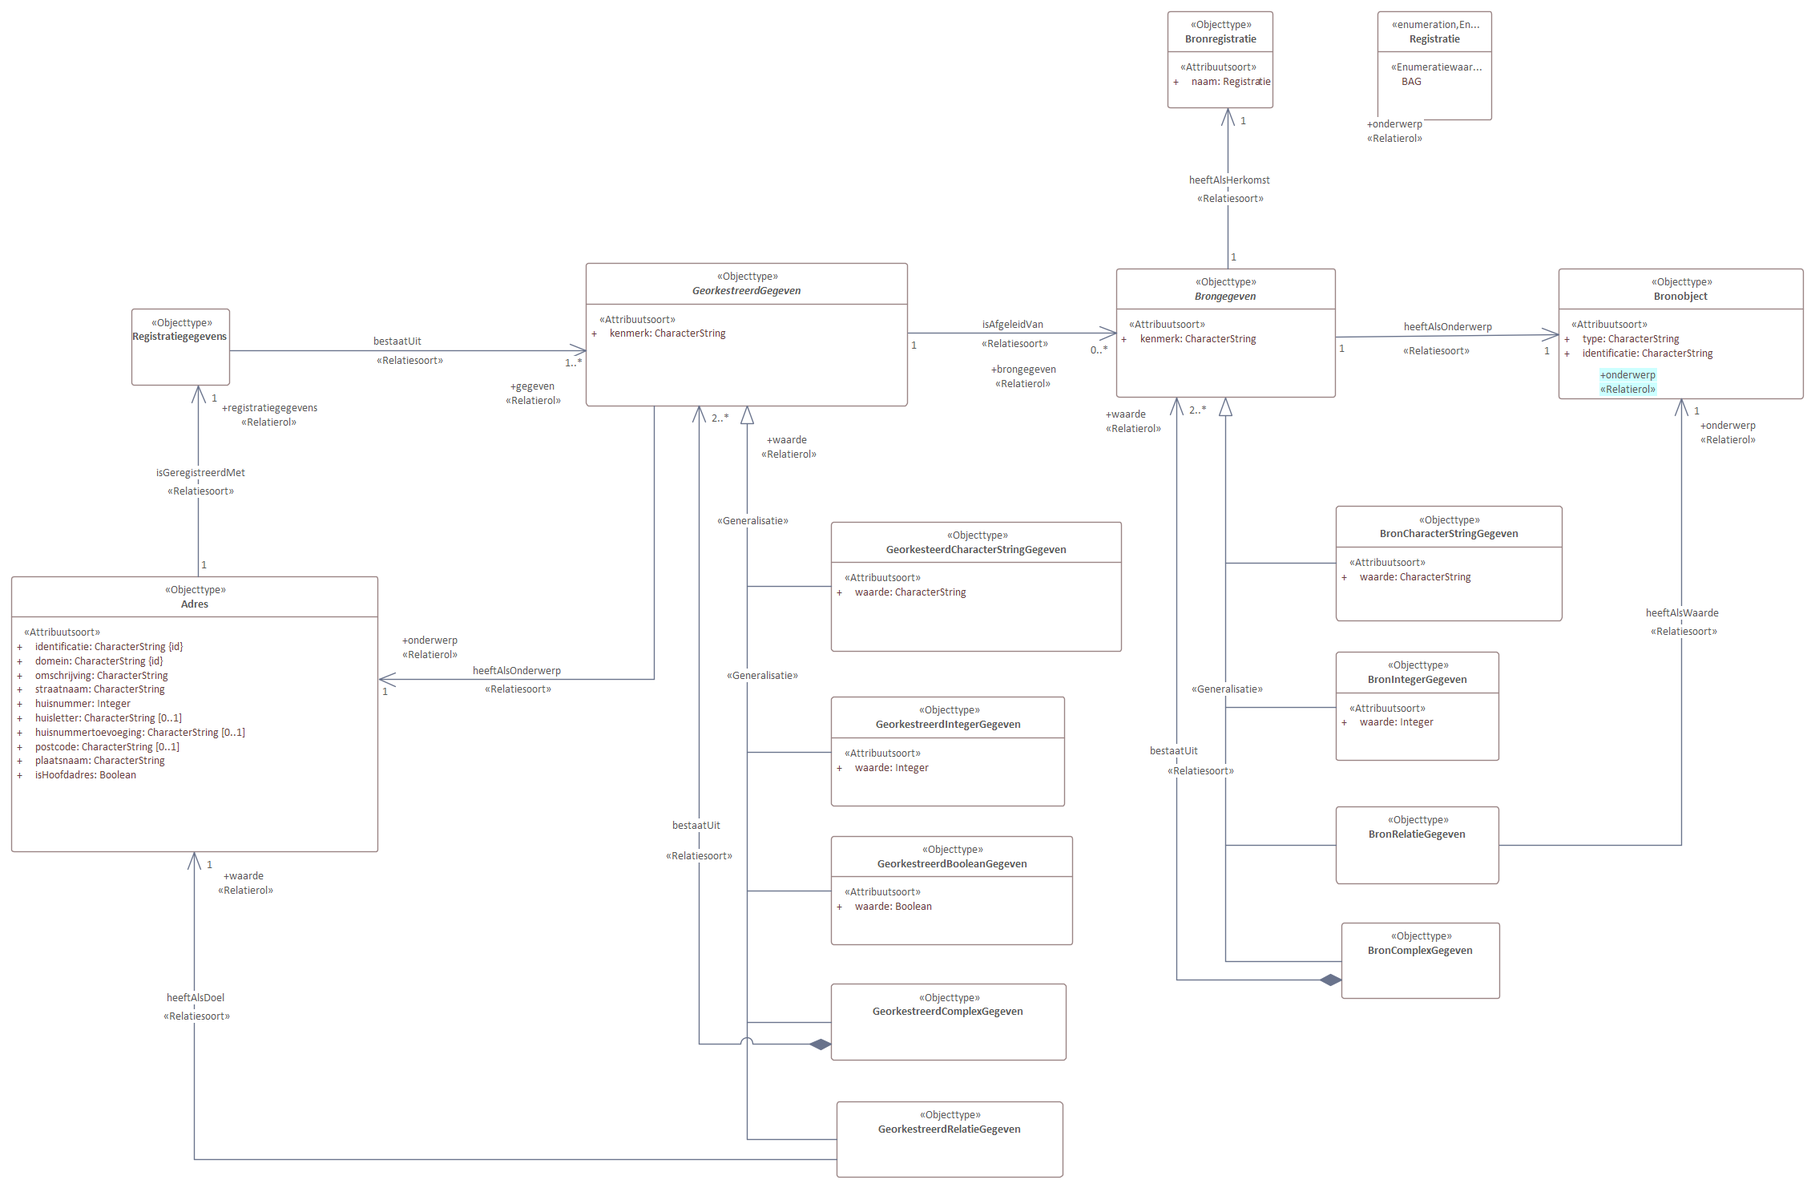
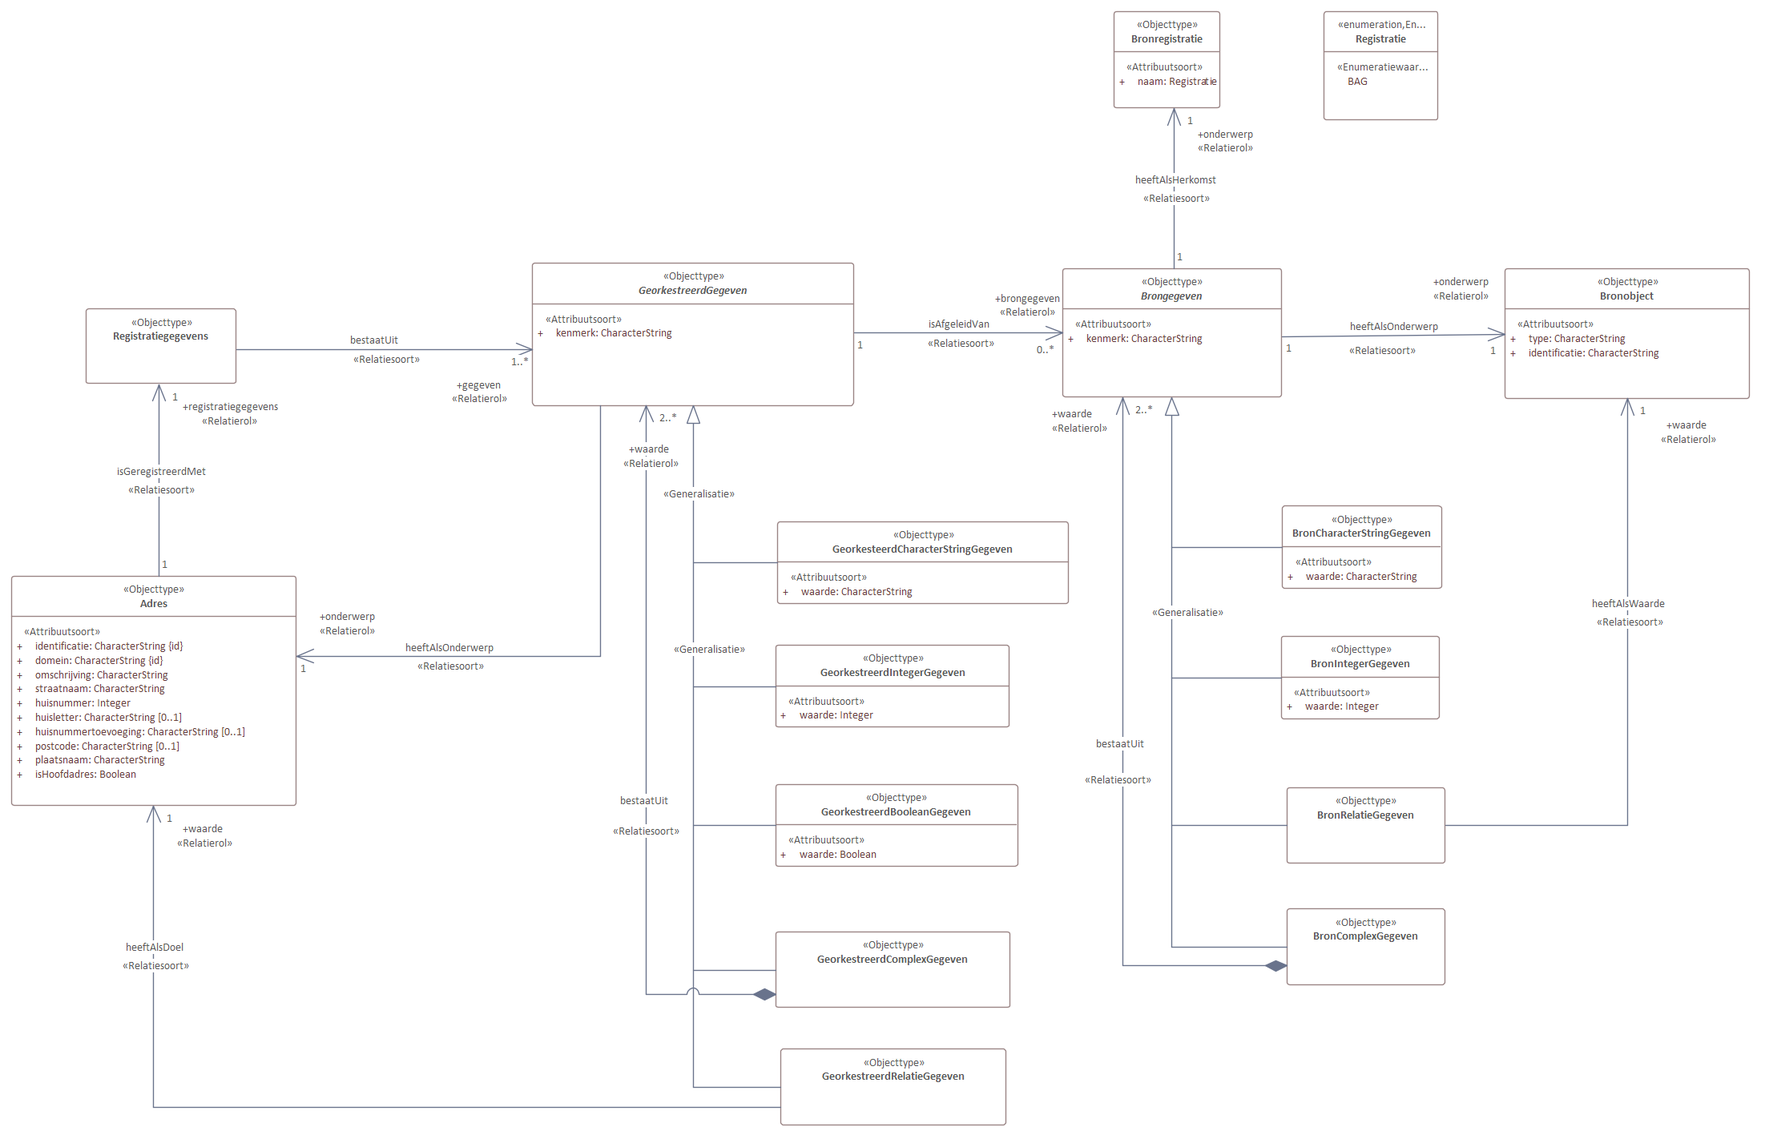
MIMCM-Adres-logisch-1.0-0-20230101-20230208-162255

diff --git a/data/WaU-UC1-cat.respec.html b/data/WaU-UC1-cat.respec.html
@@ -1,10 +1,10 @@
 
 <!DOCTYPE HTML><section id="cat" class="normative">
    <h2>Gegevensdefinitie</h2>
-   <!--MIMCM-Adres-logisch-1.0-0-20230101-20230208-161113 imvertor 2.0.0-->
+   <!--MIMCM-Adres-logisch-1.0-0-20230101-20230208-162255 imvertor 2.0.0-->
    <section id="EAID_81091321_9EE0_4579_A81E_FCDB43817CB6">
       <h3>   LM Adres - overzicht</h3>
-      <div class="imageinfo overview"><img src="data/Images/EAID_81091321_9EE0_4579_A81E_FCDB43817CB6.png" usemap="#imagemap-EAID_81091321_9EE0_4579_A81E_FCDB43817CB6" alt="Diagram &#xA;                        &#xA;                     "><map name="imagemap-EAID_81091321_9EE0_4579_A81E_FCDB43817CB6"><area shape="rect" alt="BronComplexGegeven" coords="1543,1151,1741,1246" href="#graph_EAID_6068EA49_84F3_4d94_B811_DA1D6E691482"><area shape="rect" alt="GeorkestreerdComplexGegeven" coords="906,1227,1200,1323" href="#graph_EAID_718A8CD5_7B14_4f39_99CA_7DEC96F860D9"><area shape="rect" alt="GeorkestreerdRelatieGegeven" coords="913,1373,1194,1469" href="#graph_EAID_D3CD7E63_35E9_464a_94C0_2DBFF0794B9A"><area shape="rect" alt="Bronregistratie" coords="1326,14,1458,135" href="#graph_EAID_687EF350_4662_4130_9934_56ABA00C9CB0"><area shape="rect" alt="BronRelatieGegeven" coords="1536,1006,1740,1102" href="#graph_EAID_FFD031BE_1F6B_49cb_AB2B_9091F96900E6"><area shape="rect" alt="BronIntegerGegeven" coords="1536,813,1740,950" href="#graph_EAID_DBA583C0_8B4E_4440_AFD7_469E94678574"><area shape="rect" alt="BronCharacterStringGegeven" coords="1536,631,1819,774" href="#graph_EAID_9E068EB6_4693_46c5_BEB1_75402E292ED4"><area shape="rect" alt="GeorkestreerdBooleanGegeven" coords="906,1043,1208,1179" href="#graph_EAID_A01F03E1_C230_4495_A810_A44525A808D1"><area shape="rect" alt="GeorkestreerdIntegerGegeven" coords="906,869,1199,1006" href="#graph_EAID_84DA2A1B_63C4_4a2f_9F21_07B81C042DDE"><area shape="rect" alt="GeorkesteerdCharacterStringGegeven" coords="906,651,1270,813" href="#graph_EAID_A056D40D_8797_414f_83C5_7A4306AB2F5B"><area shape="rect" alt="Bronobject" coords="1814,335,2120,497" href="#graph_EAID_9E6194F5_3BD6_483e_8E72_4CFACAAF6BE0"><area shape="rect" alt="Brongegeven" coords="1261,335,1536,496" href="#graph_EAID_B5516874_1DE0_49dd_9793_202D13B9963A"><area shape="rect" alt="GeorkestreerdGegeven" coords="600,328,1002,506" href="#graph_EAID_7589CBC4_A5AD_4d23_AA96_EB7E1DAE9DB3"><area shape="rect" alt="Adres" coords="14,847,228,924" href="#graph_EAID_CD37ECD0_E073_4444_BBFA_9F3C1E5F46F1"></map><p><b>LM Adres - overzicht</b></p>
+      <div class="imageinfo overview"><img src="data/Images/EAID_81091321_9EE0_4579_A81E_FCDB43817CB6.png" usemap="#imagemap-EAID_81091321_9EE0_4579_A81E_FCDB43817CB6" alt="Diagram &#xA;                        &#xA;                     "><map name="imagemap-EAID_81091321_9EE0_4579_A81E_FCDB43817CB6"><area shape="rect" alt="Registratiegegevens" coords="44,335,200,430" href="#graph_EAID_54DBC205_E908_44b9_98CC_AA866F0F9610"><area shape="rect" alt="BronComplexGegeven" coords="1363,1152,1561,1264" href="#graph_EAID_6068EA49_84F3_4d94_B811_DA1D6E691482"><area shape="rect" alt="GeorkestreerdComplexGegeven" coords="722,1227,1015,1339" href="#graph_EAID_718A8CD5_7B14_4f39_99CA_7DEC96F860D9"><area shape="rect" alt="GeorkestreerdRelatieGegeven" coords="728,1373,1010,1486" href="#graph_EAID_D3CD7E63_35E9_464a_94C0_2DBFF0794B9A"><area shape="rect" alt="Bronregistratie" coords="1141,14,1274,126" href="#graph_EAID_687EF350_4662_4130_9934_56ABA00C9CB0"><area shape="rect" alt="BronRelatieGegeven" coords="1356,1007,1559,1119" href="#graph_EAID_FFD031BE_1F6B_49cb_AB2B_9091F96900E6"><area shape="rect" alt="BronIntegerGegeven" coords="1352,813,1555,925" href="#graph_EAID_DBA583C0_8B4E_4440_AFD7_469E94678574"><area shape="rect" alt="BronCharacterStringGegeven" coords="1352,631,1635,743" href="#graph_EAID_9E068EB6_4693_46c5_BEB1_75402E292ED4"><area shape="rect" alt="GeorkestreerdBooleanGegeven" coords="718,1044,1020,1156" href="#graph_EAID_A01F03E1_C230_4495_A810_A44525A808D1"><area shape="rect" alt="GeorkestreerdIntegerGegeven" coords="722,869,1014,981" href="#graph_EAID_84DA2A1B_63C4_4a2f_9F21_07B81C042DDE"><area shape="rect" alt="GeorkesteerdCharacterStringGegeven" coords="722,651,1085,763" href="#graph_EAID_A056D40D_8797_414f_83C5_7A4306AB2F5B"><area shape="rect" alt="Bronobject" coords="1629,335,1935,447" href="#graph_EAID_9E6194F5_3BD6_483e_8E72_4CFACAAF6BE0"><area shape="rect" alt="Brongegeven" coords="1077,335,1352,447" href="#graph_EAID_B5516874_1DE0_49dd_9793_202D13B9963A"><area shape="rect" alt="GeorkestreerdGegeven" coords="422,335,825,447" href="#graph_EAID_7589CBC4_A5AD_4d23_AA96_EB7E1DAE9DB3"><area shape="rect" alt="Adres" coords="14,793,228,869" href="#graph_EAID_CD37ECD0_E073_4444_BBFA_9F3C1E5F46F1"></map><p><b>LM Adres - overzicht</b></p>
       </div>
    </section>
    <section id="EAID_21EC1E6E_BB66_40aa_A271_6E7F452751BC">
@@ -14,7 +14,7 @@
    </section>
    <section id="EAID_18371C99_5129_4c39_8E20_83CED8FF19B9">
       <h3>   LM Adres - detail</h3>
-      <div class="imageinfo "><img src="data/Images/EAID_18371C99_5129_4c39_8E20_83CED8FF19B9.png" usemap="#imagemap-EAID_18371C99_5129_4c39_8E20_83CED8FF19B9" alt="Diagram &#xA;                        &#xA;                     "><map name="imagemap-EAID_18371C99_5129_4c39_8E20_83CED8FF19B9"><area shape="rect" alt="Registratiegegevens" coords="164,385,287,481" href="#graph_EAID_54DBC205_E908_44b9_98CC_AA866F0F9610"><area shape="rect" alt="BronComplexGegeven" coords="1674,1151,1872,1246" href="#graph_EAID_6068EA49_84F3_4d94_B811_DA1D6E691482"><area shape="rect" alt="GeorkestreerdComplexGegeven" coords="1037,1227,1331,1323" href="#graph_EAID_718A8CD5_7B14_4f39_99CA_7DEC96F860D9"><area shape="rect" alt="GeorkestreerdRelatieGegeven" coords="1044,1374,1326,1469" href="#graph_EAID_D3CD7E63_35E9_464a_94C0_2DBFF0794B9A"><area shape="rect" alt="Bronregistratie" coords="1457,14,1589,135" href="#graph_EAID_687EF350_4662_4130_9934_56ABA00C9CB0"><area shape="rect" alt="BronRelatieGegeven" coords="1667,1006,1871,1102" href="#graph_EAID_FFD031BE_1F6B_49cb_AB2B_9091F96900E6"><area shape="rect" alt="BronIntegerGegeven" coords="1667,813,1871,950" href="#graph_EAID_DBA583C0_8B4E_4440_AFD7_469E94678574"><area shape="rect" alt="BronCharacterStringGegeven" coords="1667,631,1950,774" href="#graph_EAID_9E068EB6_4693_46c5_BEB1_75402E292ED4"><area shape="rect" alt="GeorkestreerdBooleanGegeven" coords="1037,1043,1339,1179" href="#graph_EAID_A01F03E1_C230_4495_A810_A44525A808D1"><area shape="rect" alt="GeorkestreerdIntegerGegeven" coords="1037,869,1330,1006" href="#graph_EAID_84DA2A1B_63C4_4a2f_9F21_07B81C042DDE"><area shape="rect" alt="GeorkesteerdCharacterStringGegeven" coords="1037,651,1401,813" href="#graph_EAID_A056D40D_8797_414f_83C5_7A4306AB2F5B"><area shape="rect" alt="Bronobject" coords="1945,335,2251,497" href="#graph_EAID_9E6194F5_3BD6_483e_8E72_4CFACAAF6BE0"><area shape="rect" alt="Registratie" coords="1719,14,1863,150" href="#graph_EAID_6DA086A8_76D7_4108_821A_CCA4DE494DBD"><area shape="rect" alt="Brongegeven" coords="1393,335,1667,496" href="#graph_EAID_B5516874_1DE0_49dd_9793_202D13B9963A"><area shape="rect" alt="GeorkestreerdGegeven" coords="731,328,1133,506" href="#graph_EAID_7589CBC4_A5AD_4d23_AA96_EB7E1DAE9DB3"><area shape="rect" alt="Adres" coords="14,719,473,1063" href="#graph_EAID_CD37ECD0_E073_4444_BBFA_9F3C1E5F46F1"></map><p><b>LM Adres - detail</b></p>
+      <div class="imageinfo "><img src="data/Images/EAID_18371C99_5129_4c39_8E20_83CED8FF19B9.png" usemap="#imagemap-EAID_18371C99_5129_4c39_8E20_83CED8FF19B9" alt="Diagram &#xA;                        &#xA;                     "><map name="imagemap-EAID_18371C99_5129_4c39_8E20_83CED8FF19B9"><area shape="rect" alt="Registratiegegevens" coords="107,385,295,480" href="#graph_EAID_54DBC205_E908_44b9_98CC_AA866F0F9610"><area shape="rect" alt="BronComplexGegeven" coords="1606,1134,1804,1230" href="#graph_EAID_6068EA49_84F3_4d94_B811_DA1D6E691482"><area shape="rect" alt="GeorkestreerdComplexGegeven" coords="968,1163,1261,1259" href="#graph_EAID_718A8CD5_7B14_4f39_99CA_7DEC96F860D9"><area shape="rect" alt="GeorkestreerdRelatieGegeven" coords="974,1309,1256,1405" href="#graph_EAID_D3CD7E63_35E9_464a_94C0_2DBFF0794B9A"><area shape="rect" alt="Bronregistratie" coords="1390,14,1522,135" href="#graph_EAID_687EF350_4662_4130_9934_56ABA00C9CB0"><area shape="rect" alt="BronRelatieGegeven" coords="1606,983,1804,1078" href="#graph_EAID_FFD031BE_1F6B_49cb_AB2B_9091F96900E6"><area shape="rect" alt="BronIntegerGegeven" coords="1599,794,1797,898" href="#graph_EAID_DBA583C0_8B4E_4440_AFD7_469E94678574"><area shape="rect" alt="BronCharacterStringGegeven" coords="1600,631,1799,735" href="#graph_EAID_9E068EB6_4693_46c5_BEB1_75402E292ED4"><area shape="rect" alt="GeorkestreerdBooleanGegeven" coords="968,979,1270,1082" href="#graph_EAID_A01F03E1_C230_4495_A810_A44525A808D1"><area shape="rect" alt="GeorkestreerdIntegerGegeven" coords="968,805,1260,909" href="#graph_EAID_84DA2A1B_63C4_4a2f_9F21_07B81C042DDE"><area shape="rect" alt="GeorkesteerdCharacterStringGegeven" coords="970,651,1334,754" href="#graph_EAID_A056D40D_8797_414f_83C5_7A4306AB2F5B"><area shape="rect" alt="Bronobject" coords="1878,335,2184,497" href="#graph_EAID_9E6194F5_3BD6_483e_8E72_4CFACAAF6BE0"><area shape="rect" alt="Registratie" coords="1652,14,1796,150" href="#graph_EAID_6DA086A8_76D7_4108_821A_CCA4DE494DBD"><area shape="rect" alt="Brongegeven" coords="1326,335,1600,496" href="#graph_EAID_B5516874_1DE0_49dd_9793_202D13B9963A"><area shape="rect" alt="GeorkestreerdGegeven" coords="664,328,1066,506" href="#graph_EAID_7589CBC4_A5AD_4d23_AA96_EB7E1DAE9DB3"><area shape="rect" alt="Adres" coords="14,719,370,1006" href="#graph_EAID_CD37ECD0_E073_4444_BBFA_9F3C1E5F46F1"></map><p><b>LM Adres - detail</b></p>
       </div>
    </section>
    <section id="EAID_E932B931_8807_4160_A096_5F49806F1EF2">
@@ -266,66 +266,6 @@
                      [ 1 ]
                      </td>
                   <td></td>
-               </tr>
-            </tbody>
-         </table>
-         
-         </section>
-      <a class="anchor" id="graph_EAID_54DBC205_E908_44b9_98CC_AA866F0F9610"></a><a class="anchor" id="global_class_Adres_Registratiegegevens"></a><section id="global_class_Adres_Registratiegegevens">
-         <h4>   Registratiegegevens</h4>
-         
-         <table style="width: 100%;">
-            <colgroup style="width: 30%;"></colgroup>
-            <colgroup style="width: 70%;"></colgroup>
-            <tbody>
-               <tr>
-                  <th>Naam</th>
-                  <td>Registratiegegevens</td>
-               </tr>
-            </tbody>
-         </table>
-         
-         <h5>Overzicht relaties  </h5>
-         
-         
-         <table style="width: 100%;">
-            <colgroup style="width: 50%;"></colgroup>
-            <colgroup style="width: 50%;"></colgroup>
-            <tbody>
-               <tr>
-                  <th>Rol naam met kardinaliteiten</th>
-                  <th>Definitie</th>
-               </tr>
-               <tr>
-                  <td>
-                     Registratiegegevens
-                     [ 1 ]
-                     
-                     <a class="link" href="#detail_association_Adres_Registratiegegevens_gegeven">bestaatUit: gegeven</a>
-                     
-                     
-                     <a class="link" href="#global_class_Adres_GeorkestreerdGegeven">GeorkestreerdGegeven</a>
-                     
-                     [ 1 .. * ]
-                     </td>
-                  <td></td>
-               </tr>
-               <tr>
-                  <td>
-                     
-                     <a class="link" href="#global_class_Adres_Adres">Adres</a>
-                     
-                     [ 1 ]
-                     
-                     <a class="link" href="#detail_association_Adres_Adres_registratiegegevens">isGeregistreerdMet: registratiegegevens</a>
-                     
-                     Registratiegegevens
-                     [ 1 ]
-                     </td>
-                  <td>
-                     
-                     <p>Registraties, waarmee Adres is geregistreerd.</p>
-                     </td>
                </tr>
             </tbody>
          </table>
@@ -1019,7 +959,7 @@
                      BronRelatieGegeven
                      [ 1 ]
                      
-                     <a class="link" href="#detail_association_Adres_BronRelatieGegeven_onderwerp">heeftAlsWaarde: onderwerp</a>
+                     <a class="link" href="#detail_association_Adres_BronRelatieGegeven_waarde">heeftAlsWaarde: waarde</a>
                      
                      
                      <a class="link" href="#global_class_Adres_Bronobject">Bronobject</a>
@@ -1152,7 +1092,7 @@
                      
                      [ 1 ]
                      
-                     <a class="link" href="#detail_association_Adres_BronRelatieGegeven_onderwerp">heeftAlsWaarde: onderwerp</a>
+                     <a class="link" href="#detail_association_Adres_BronRelatieGegeven_waarde">heeftAlsWaarde: waarde</a>
                      
                      Bronobject
                      [ 1 ]
@@ -1248,6 +1188,66 @@
                   <td>
                      
                      <p>Bronregistratie, waar brongegeven uit herkomt.</p>
+                     </td>
+               </tr>
+            </tbody>
+         </table>
+         
+         </section>
+      <a class="anchor" id="graph_EAID_54DBC205_E908_44b9_98CC_AA866F0F9610"></a><a class="anchor" id="global_class_Adres_Registratiegegevens"></a><section id="global_class_Adres_Registratiegegevens">
+         <h4>   Registratiegegevens</h4>
+         
+         <table style="width: 100%;">
+            <colgroup style="width: 30%;"></colgroup>
+            <colgroup style="width: 70%;"></colgroup>
+            <tbody>
+               <tr>
+                  <th>Naam</th>
+                  <td>Registratiegegevens</td>
+               </tr>
+            </tbody>
+         </table>
+         
+         <h5>Overzicht relaties  </h5>
+         
+         
+         <table style="width: 100%;">
+            <colgroup style="width: 50%;"></colgroup>
+            <colgroup style="width: 50%;"></colgroup>
+            <tbody>
+               <tr>
+                  <th>Rol naam met kardinaliteiten</th>
+                  <th>Definitie</th>
+               </tr>
+               <tr>
+                  <td>
+                     Registratiegegevens
+                     [ 1 ]
+                     
+                     <a class="link" href="#detail_association_Adres_Registratiegegevens_gegeven">bestaatUit: gegeven</a>
+                     
+                     
+                     <a class="link" href="#global_class_Adres_GeorkestreerdGegeven">GeorkestreerdGegeven</a>
+                     
+                     [ 1 .. * ]
+                     </td>
+                  <td></td>
+               </tr>
+               <tr>
+                  <td>
+                     
+                     <a class="link" href="#global_class_Adres_Adres">Adres</a>
+                     
+                     [ 1 ]
+                     
+                     <a class="link" href="#detail_association_Adres_Adres_registratiegegevens">isGeregistreerdMet: registratiegegevens</a>
+                     
+                     Registratiegegevens
+                     [ 1 ]
+                     </td>
+                  <td>
+                     
+                     <p>Registraties, waarmee Adres is geregistreerd.</p>
                      </td>
                </tr>
             </tbody>
@@ -2088,46 +2088,6 @@
                </table>
                </section>
             </section>
-         <a class="anchor" id="detail_class_Adres_Registratiegegevens"></a><section id="detail_class_Adres_Registratiegegevens">
-            <h5>   Registratiegegevens</h5>
-            <a class="anchor" id="detail_association_Adres_Registratiegegevens_gegeven"></a><section id="detail_association_Adres_Registratiegegevens_gegeven">
-               <h6>Relatiesoort details  <a href="#global_class_Adres_Registratiegegevens">Registratiegegevens</a> bestaatUit</h6>
-               
-               
-               <table style="width: 100%;">
-                  <colgroup style="width: 30%;"></colgroup>
-                  <colgroup style="width: 70%;"></colgroup>
-                  <tbody>
-                     <tr>
-                        <th>Naam</th>
-                        <td>bestaatUit</td>
-                     </tr>
-                     <tr>
-                        <th>Mogelijk geen waarde</th>
-                        <td>Nee</td>
-                     </tr>
-                     <tr>
-                        <th>Indicatie materiële historie</th>
-                        <td>Nee</td>
-                     </tr>
-                     <tr>
-                        <th>Indicatie formele historie</th>
-                        <td>Nee</td>
-                     </tr>
-                     <tr>
-                        <th>Kardinaliteit</th>
-                        <td>1 .. *</td>
-                     </tr>
-                     <tr>
-                        <th>Gerelateerd objecttype</th>
-                        <td>
-                           <a class="link" href="#global_class_Adres_GeorkestreerdGegeven">GeorkestreerdGegeven</a>
-                           </td>
-                     </tr>
-                  </tbody>
-               </table>
-               </section>
-            </section>
          <a class="anchor" id="detail_class_Adres_GeorkestreerdGegeven"></a><section id="detail_class_Adres_GeorkestreerdGegeven">
             <h5>   GeorkestreerdGegeven</h5>
             <a class="anchor" id="detail_attribute_Adres_GeorkestreerdGegeven_kenmerk"></a><section id="detail_attribute_Adres_GeorkestreerdGegeven_kenmerk">
@@ -2544,7 +2504,7 @@
             </section>
          <a class="anchor" id="detail_class_Adres_BronRelatieGegeven"></a><section id="detail_class_Adres_BronRelatieGegeven">
             <h5>   BronRelatieGegeven</h5>
-            <a class="anchor" id="detail_association_Adres_BronRelatieGegeven_onderwerp"></a><section id="detail_association_Adres_BronRelatieGegeven_onderwerp">
+            <a class="anchor" id="detail_association_Adres_BronRelatieGegeven_waarde"></a><section id="detail_association_Adres_BronRelatieGegeven_waarde">
                <h6>Relatiesoort details  <a href="#global_class_Adres_BronRelatieGegeven">BronRelatieGegeven</a> heeftAlsWaarde</h6>
                
                
@@ -2720,6 +2680,46 @@
                </table>
                </section>
             </section>
+         <a class="anchor" id="detail_class_Adres_Registratiegegevens"></a><section id="detail_class_Adres_Registratiegegevens">
+            <h5>   Registratiegegevens</h5>
+            <a class="anchor" id="detail_association_Adres_Registratiegegevens_gegeven"></a><section id="detail_association_Adres_Registratiegegevens_gegeven">
+               <h6>Relatiesoort details  <a href="#global_class_Adres_Registratiegegevens">Registratiegegevens</a> bestaatUit</h6>
+               
+               
+               <table style="width: 100%;">
+                  <colgroup style="width: 30%;"></colgroup>
+                  <colgroup style="width: 70%;"></colgroup>
+                  <tbody>
+                     <tr>
+                        <th>Naam</th>
+                        <td>bestaatUit</td>
+                     </tr>
+                     <tr>
+                        <th>Mogelijk geen waarde</th>
+                        <td>Nee</td>
+                     </tr>
+                     <tr>
+                        <th>Indicatie materiële historie</th>
+                        <td>Nee</td>
+                     </tr>
+                     <tr>
+                        <th>Indicatie formele historie</th>
+                        <td>Nee</td>
+                     </tr>
+                     <tr>
+                        <th>Kardinaliteit</th>
+                        <td>1 .. *</td>
+                     </tr>
+                     <tr>
+                        <th>Gerelateerd objecttype</th>
+                        <td>
+                           <a class="link" href="#global_class_Adres_GeorkestreerdGegeven">GeorkestreerdGegeven</a>
+                           </td>
+                     </tr>
+                  </tbody>
+               </table>
+               </section>
+            </section>
          <a class="anchor" id="detail_class_Adres_BronComplexGegeven"></a><section id="detail_class_Adres_BronComplexGegeven">
             <h5>   BronComplexGegeven</h5>
             <a class="anchor" id="detail_association_Adres_BronComplexGegeven_waarde"></a><section id="detail_association_Adres_BronComplexGegeven_waarde">
@@ -2826,7 +2826,7 @@
 </section>
 <section id="lis" class="normative">
    <h2>Inhoud van waardenlijsten</h2>
-   <!--MIMCM-Adres-logisch-1.0-0-20230101-20230208-161113 imvertor 2.0.0--><a class="anchor" id="graph_EAID_6DA086A8_76D7_4108_821A_CCA4DE494DBD"></a><a class="anchor" id="detail_class_Adres_Registratie"></a><section id="detail_class_Adres_Registratie">
+   <!--MIMCM-Adres-logisch-1.0-0-20230101-20230208-162255 imvertor 2.0.0--><a class="anchor" id="graph_EAID_6DA086A8_76D7_4108_821A_CCA4DE494DBD"></a><a class="anchor" id="detail_class_Adres_Registratie"></a><section id="detail_class_Adres_Registratie">
       <h3>Enumeratie details  Registratie</h3>
       
       <table style="width: 100%;" class="list">
